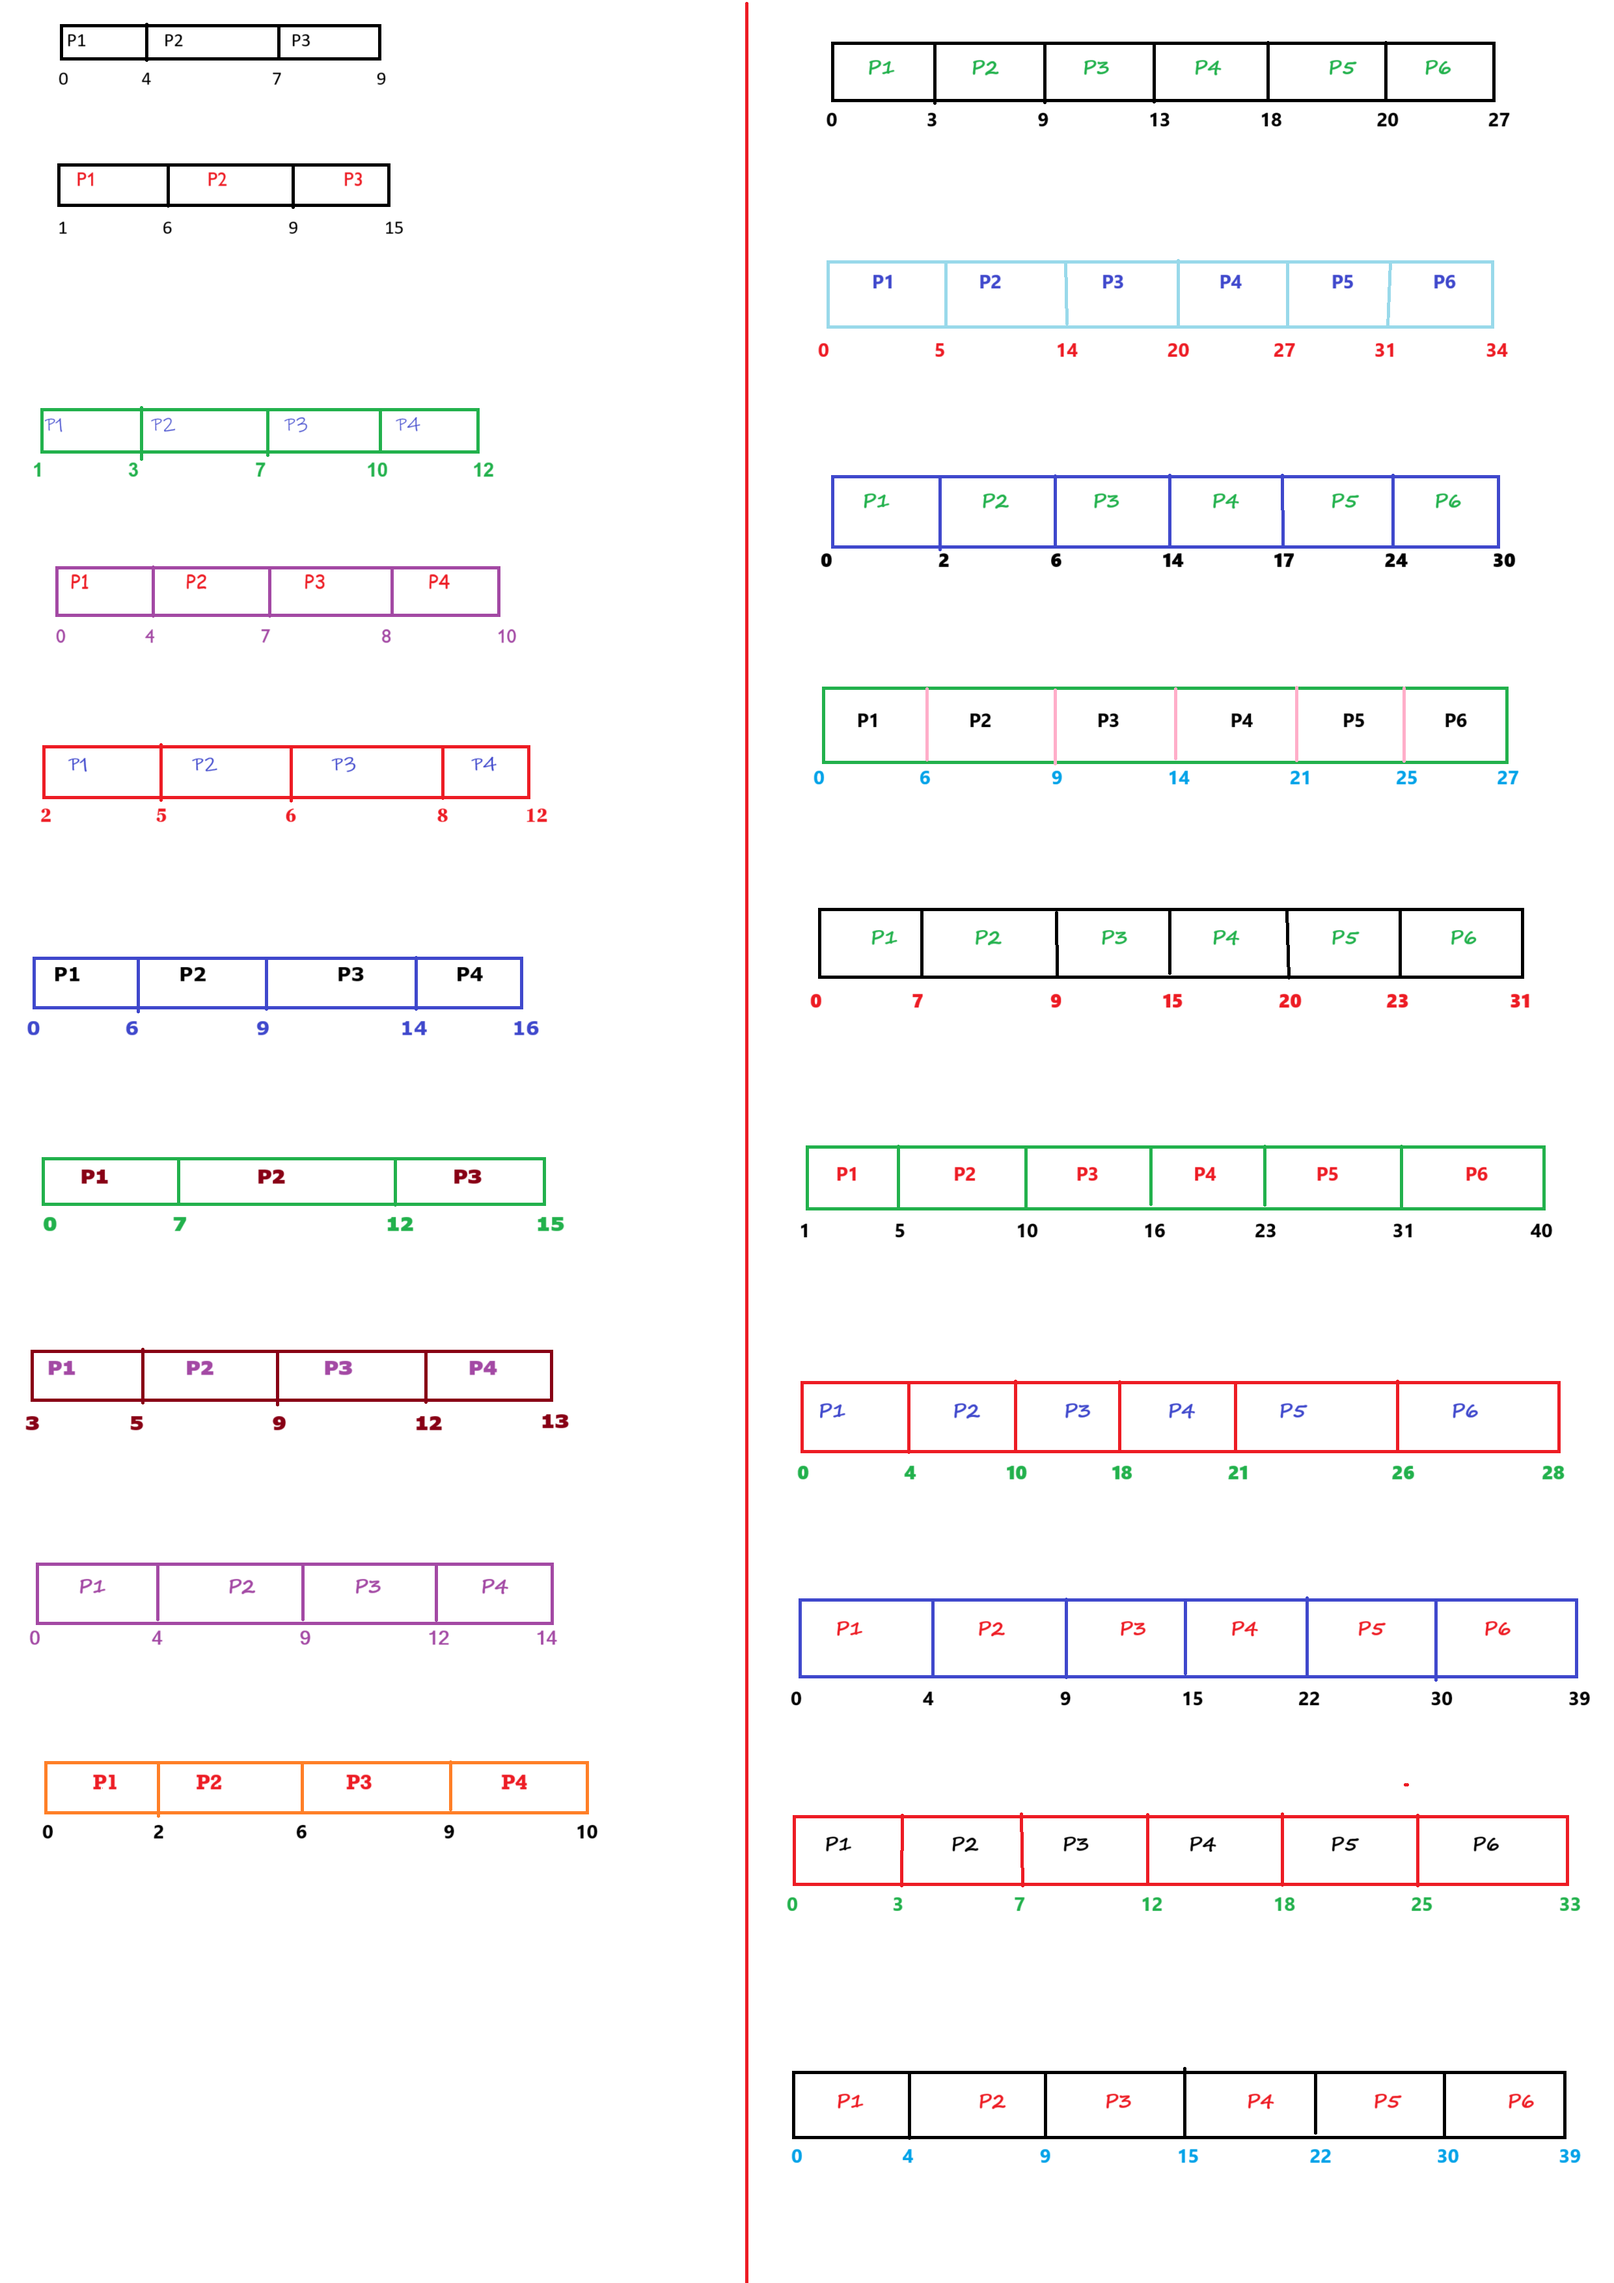
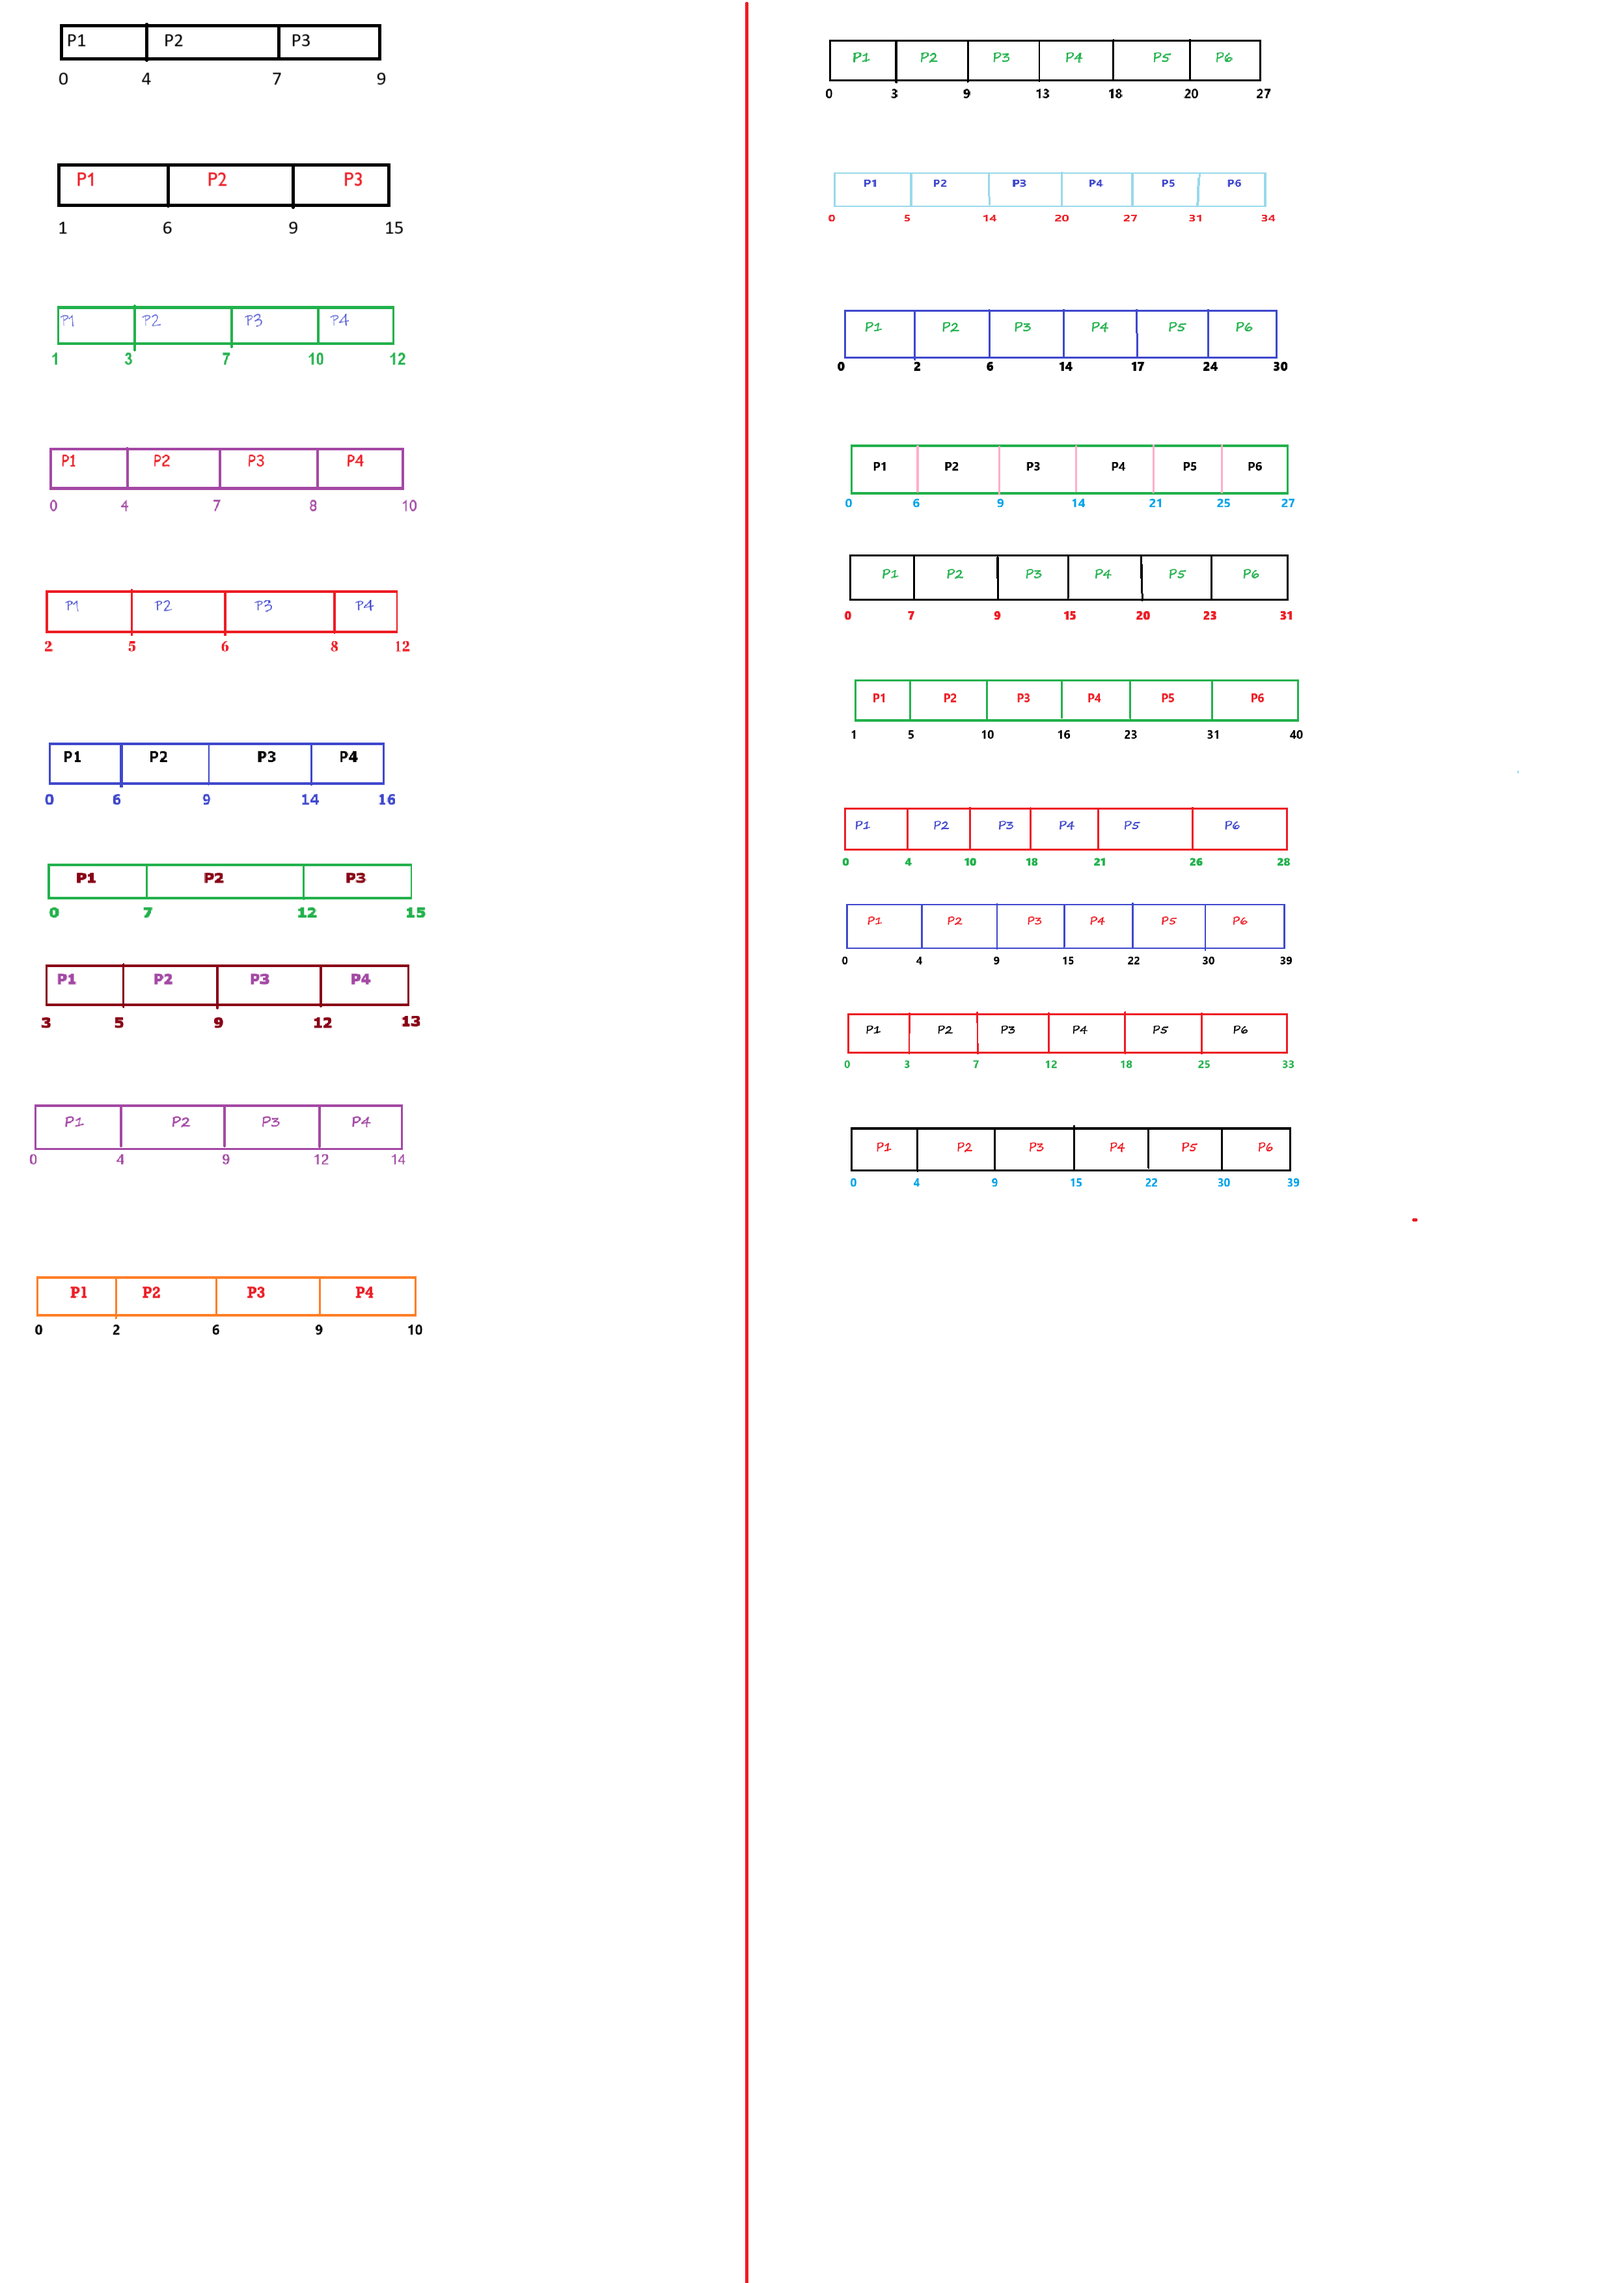
attaching gantt chart image fcfs.htnl complete

diff --git a/sub_modules/os/fcfs2.html b/sub_modules/os/fcfs2.html
@@ -2,17 +2,86 @@
 <html lang="en">
   <head>
     <head>
-      <script  type="text/javascript" src="../../externalcss.js"></script>
+      <script type="text/javascript" src="../../externalcss.js"></script>
       <meta charset="UTF-8" />
       <meta name="viewport" content="width=device-width, initial-scale=1.0" />
- 
+
       <title>Top FCFS Scheduling Algorithm Problems & Detailed Solutions</title>
-      <meta name="description" content="Access top FCFS scheduling algorithm problems with detailed solutions. Ideal for exam preparation and enhancing knowledge of process scheduling algorithms." />
-      
+      <meta
+        name="description"
+        content="Access top FCFS scheduling algorithm problems with detailed solutions. Ideal for exam preparation and enhancing knowledge of process scheduling algorithms."
+      />
+      <style>
+        #fcfs11,
+        #fcfs12,
+        #fcfs13,
+        #fcfs14,
+        #fcfs15,
+        #fcfs16,
+        #fcfs17,
+        #fcfs18,
+        #fcfs19,
+        #fcfs20 {
+          height: 111px;
+          width: 696px;
+          background-image: url(/assets/picturefghfghfg.png);
+          background-repeat: no-repeat;
+          border: 1px solid red;
+        }
+
+        #fcfs11 {
+          background-position: -1263px -50px;
+        }
+        #fcfs12 {
+          background-position: -1269px -246px;
+        }
+        #fcfs13 {
+          background-position: -1285px -464px;
+        }
+        #fcfs14 {
+          background-position: -1296px -677px;
+        }
+        #fcfs15 {
+          background-position: -1296px -847px;
+        }
+        #fcfs16 {
+          background-position: -1307px -1035px;
+        }
+        #fcfs17 {
+          background-position: -1290px -1232px;
+        }
+        #fcfs18 {
+          background-position: -1292px -1381px;
+        }
+        #fcfs19 {
+          background-position: -1296px -1544px;
+        }
+        #fcfs20 {
+          background-position: -1295px -1542px;
+        }
+        @media (width<=770px) {
+          #fcfs11,
+          #fcfs12,
+          #fcfs13,
+          #fcfs14,
+          #fcfs15,
+          #fcfs16,
+          #fcfs17,
+          #fcfs18,
+          #fcfs19,
+          #fcfs20 {
+            height: 70px;
+            width: 400px;
+            background-image: url(/assets/picturefghfghfgsmall.png);
+          }
+          #fcfs1 {
+            background-position: -1274px -21px;
+          }
+        }
+      </style>
     </head>
   </head>
   <body>
-
     <!-- upper and down button -->
     <div class="container">
       <h1 id="upper">FCFS(FIRST COME FIRST SERVED) question</h1>
@@ -100,6 +169,7 @@
       <p>Waiting Time (WT) = Turn Around Time (TAT) - Burst Time (BT)</p>
 
       <h4>Gantt Chart</h4>
+      <div id="fcfs11"></div>
       <p>
         | P1 (0-3) | P2 (3-9) | P3 (9-13) | P4 (13-18) | P5 (18-20) | P6 (20-27)
         |
@@ -229,6 +299,7 @@
       <p>Turn Around Time (TAT) = Completion Time (CT) - Arrival Time (AT)</p>
       <p>Waiting Time (WT) = Turn Around Time (TAT) - Burst Time (BT)</p>
       <h4>Gantt Chart</h4>
+      <div id="fcfs12"></div>
       <p>
         | P1 (0-5) | P2 (5-14) | P3 (14-20) | P4 (20-27) | P5 (27-31) | P6
         (31-34) |
@@ -358,6 +429,7 @@
       <p>Waiting Time (WT) = Turn Around Time (TAT) - Burst Time (BT)</p>
 
       <h4>Gantt Chart</h4>
+      <div id="fcfs13"></div>
       <p>
         | P1 (0-2) | P2 (2-6) | P3 (6-14) | P4 (14-17) | P5 (17-24) | P6 (24-30)
         |
@@ -488,6 +560,7 @@
       <p>Waiting Time (WT) = Turn Around Time (TAT) - Burst Time (BT)</p>
 
       <h4>Gantt Chart</h4>
+      <div id="fcfs14"></div>
       <p>
         | P1 (0-6) | P2 (6-9) | P3 (9-14) | P4 (14-21) | P5 (21-25) | P6 (25-27)
         |
@@ -618,6 +691,7 @@
       <p>Waiting Time (WT) = Turn Around Time (TAT) - Burst Time (BT)</p>
 
       <h4>Gantt Chart</h4>
+      <div id="fcfs15"></div>
       <p>
         | P1 (0-7) | P2 (7-9) | P3 (9-15) | P4 (15-20) | P5 (20-23) | P6 (23-31)
         |
@@ -749,6 +823,7 @@
       <p>Waiting Time (WT) = Turn Around Time (TAT) - Burst Time (BT)</p>
 
       <h4>Gantt Chart</h4>
+      <div id="fcfs16"></div>
       <p>
         | P1 (1-5) | P2 (5-10) | P3 (10-16) | P4 (16-23) | P5 (23-31) | P6
         (31-40) |
@@ -879,6 +954,7 @@
       <p>Waiting Time (WT) = Turn Around Time (TAT) - Burst Time (BT)</p>
 
       <h4>Gantt Chart</h4>
+      <div id="fcfs17"></div>
       <p>
         | P1 (0-4) | P2 (4-10) | P3 (10-18) | P4 (18-21) | P5 (21-26) | P6
         (26-28) |
@@ -1008,6 +1084,7 @@
       <p>Waiting Time (WT) = Turn Around Time (TAT) - Burst Time (BT)</p>
 
       <h4>Gantt Chart</h4>
+      <div id="fcfs18"></div>
       <p>
         | P1 (0-4) | P2 (4-9) | P3 (9-15) | P4 (15-22) | P5 (22-30) | P6 (30-39)
         |
@@ -1139,6 +1216,7 @@
       <p>Waiting Time (WT) = Turn Around Time (TAT) - Burst Time (BT)</p>
 
       <h4>Gantt Chart</h4>
+      <div id="fcfs19"></div>
       <p>
         | P1 (0-3) | P2 (3-7) | P3 (7-12) | P4 (12-18) | P5 (18-25) | P6 (25-33)
         |
@@ -1268,6 +1346,7 @@
       <p>Waiting Time (WT) = Turn Around Time (TAT) - Burst Time (BT)</p>
 
       <h4>Gantt Chart</h4>
+      <div id="fcfs20"></div>
       <p>
         | P1 (0-4) | P2 (4-9) | P3 (9-15) | P4 (15-22) | P5 (22-30) | P6 (30-39)
         |
@@ -1358,6 +1437,6 @@
       </div>
     </div>
 
-    <script type="text/javascript" src="../../hdr_ftr.js" ></script>
+    <script type="text/javascript" src="../../hdr_ftr.js"></script>
   </body>
 </html>

diff --git a/sub_modules/os/fcfs.html b/sub_modules/os/fcfs.html
@@ -10,24 +10,97 @@
       content="Explore FCFS (First Come First Serve) scheduling algorithm questions and step-by-step solutions. Perfect for computer science students and professionals preparing for exams."
     />
     <style>
-
-      #fcfs1 {
+      #fcfs1,
+      #fcfs2,
+      #fcfs3,
+      #fcfs4,
+      #fcfs5,
+      #fcfs6,
+      #fcfs7,
+      #fcfs8,
+      #fcfs9,
+      #fcfs10 {
         height: 111px;
-        width: 600px;
+        width: 630px;
         background-image: url(/assets/picturefghfghfg.png);
         background-repeat: no-repeat;
-        background-position: -52px -32px;
         border: 1px solid red;
       }
-      @media (width<=700px) {
-        #fcfs1 {
-          height: 111px;
-          width: auto;
-          background-image: url(/assets/picturefghfghfg.png);
-          background-repeat: no-repeat;
 
-          border: 1px solid red;
-          background-position: -84px -32px;
+      #fcfs1 {
+        background-position: -52px -32px;
+      }
+      #fcfs2 {
+        background-position: -68px -252px;
+      }
+      #fcfs3 {
+        background-position: -68px -464px;
+      }
+      #fcfs4 {
+        background-position: -64px -683px;
+      }
+      #fcfs5 {
+        background-position: -52px -901px;
+      }
+      #fcfs6 {
+        background-position: -62px -1135px;
+      }
+      #fcfs7 {
+        background-position: -65px -1313px;
+      }
+      #fcfs8 {
+        background-position: -53px -1479px;
+      }
+      #fcfs9 {
+        background-position: -34px -1685px;
+      }
+      #fcfs10 {
+        background-position: -45px -1954px;
+      }
+      @media (width<=770px) {
+        #fcfs1,
+        #fcfs2,
+        #fcfs3,
+        #fcfs4,
+        #fcfs5,
+        #fcfs6,
+        #fcfs7,
+        #fcfs8,
+        #fcfs9,
+        #fcfs10 {
+          height: 110px;
+          width: 400px;
+          background-image: url(/assets/picturefghfghfgsmall.png);
+        }
+        #fcfs1 {
+          background-position: -24px -10px;
+        }
+        #fcfs2 {
+          background-position: -15px -144px;
+        }
+        #fcfs3 {
+          background-position: -17px -306px;
+        }
+        #fcfs4 {
+          background-position: -46px -515px;
+        }
+        #fcfs5 {
+          background-position: -31px -678px;
+        }
+        #fcfs6 {
+          background-position: -33px -811px;
+        }
+        #fcfs7 {
+          background-position: -19px -961px;
+        }
+        #fcfs8 {
+          background-position: -35px -1145px;
+        }
+        #fcfs9 {
+          background-position: -47px -1313px;
+        }
+        #fcfs10 {
+          background-position: -29px -1446px;
         }
       }
     </style>
@@ -111,6 +184,7 @@
 
       <h4>Gantt Chart</h4>
       <div id="fcfs1"></div>
+
       <p>P1 (0-4) -> P2 (4-7) -> P3 (7-9)</p>
 
       <table border="1" class="table table-bordered">
@@ -204,6 +278,7 @@
       </ul>
 
       <h4>Gantt Chart</h4>
+      <div id="fcfs2"></div>
       <p>P1 (1-6) -> P2 (6-9) -> P3 (9-15)</p>
 
       <table border="1" class="table table-bordered">
@@ -298,6 +373,7 @@
       </ul>
 
       <h4>Gantt Chart</h4>
+      <div id="fcfs3"></div>
       <p>P1 (1-3) -> P2 (3-7) -> P3 (7-10) -> P4 (10-12)</p>
 
       <table border="1" class="table table-bordered">
@@ -403,6 +479,7 @@
       </ul>
 
       <h4>Gantt Chart</h4>
+      <div id="fcfs4"></div>
       <p>P1 (0-4) -> P2 (4-7) -> P3 (7-8) -> P4 (8-10)</p>
 
       <table border="1" class="table table-bordered">
@@ -508,6 +585,7 @@
       </ul>
 
       <h4>Gantt Chart</h4>
+      <div id="fcfs5"></div>
       <p>P1 (2-5) -> P2 (5-6) -> P3 (6-8) -> P4 (8-12)</p>
 
       <table border="1" class="table table-bordered">
@@ -611,6 +689,7 @@
       </ul>
 
       <h4>Gantt Chart</h4>
+      <div id="fcfs6"></div>
       <p>P1 (0-6) -> P2 (6-9) -> P3 (9-14) -> P4 (14-16)</p>
 
       <table border="1" class="table table-bordered">
@@ -711,6 +790,7 @@
       </ul>
 
       <h4>Gantt Chart</h4>
+      <div id="fcfs7"></div>
       <p>P1 (0-7) -> P2 (7-12) -> P3 (12-15)</p>
 
       <table border="1" class="table table-bordered">
@@ -806,6 +886,7 @@
       </ul>
 
       <h4>Gantt Chart</h4>
+      <div id="fcfs8"></div>
       <p>P1 (3-5) -> P2 (5-9) -> P3 (9-12) -> P4 (12-13)</p>
 
       <table border="1" class="table table-bordered">
@@ -911,6 +992,7 @@
       </ul>
 
       <h4>Gantt Chart</h4>
+      <div id="fcfs9"></div>
       <p>P1 (0-4) -> P2 (4-9) -> P3 (9-12) -> P4 (12-14)</p>
 
       <table border="1" class="table table-bordered">
@@ -1014,6 +1096,7 @@
       </ul>
 
       <h4>Gantt Chart</h4>
+      <div id="fcfs10"></div>
       <p>P1 (0-2) -> P2 (2-6) -> P3 (6-9) -> P4 (9-10)</p>
 
       <table border="1" class="table table-bordered">
